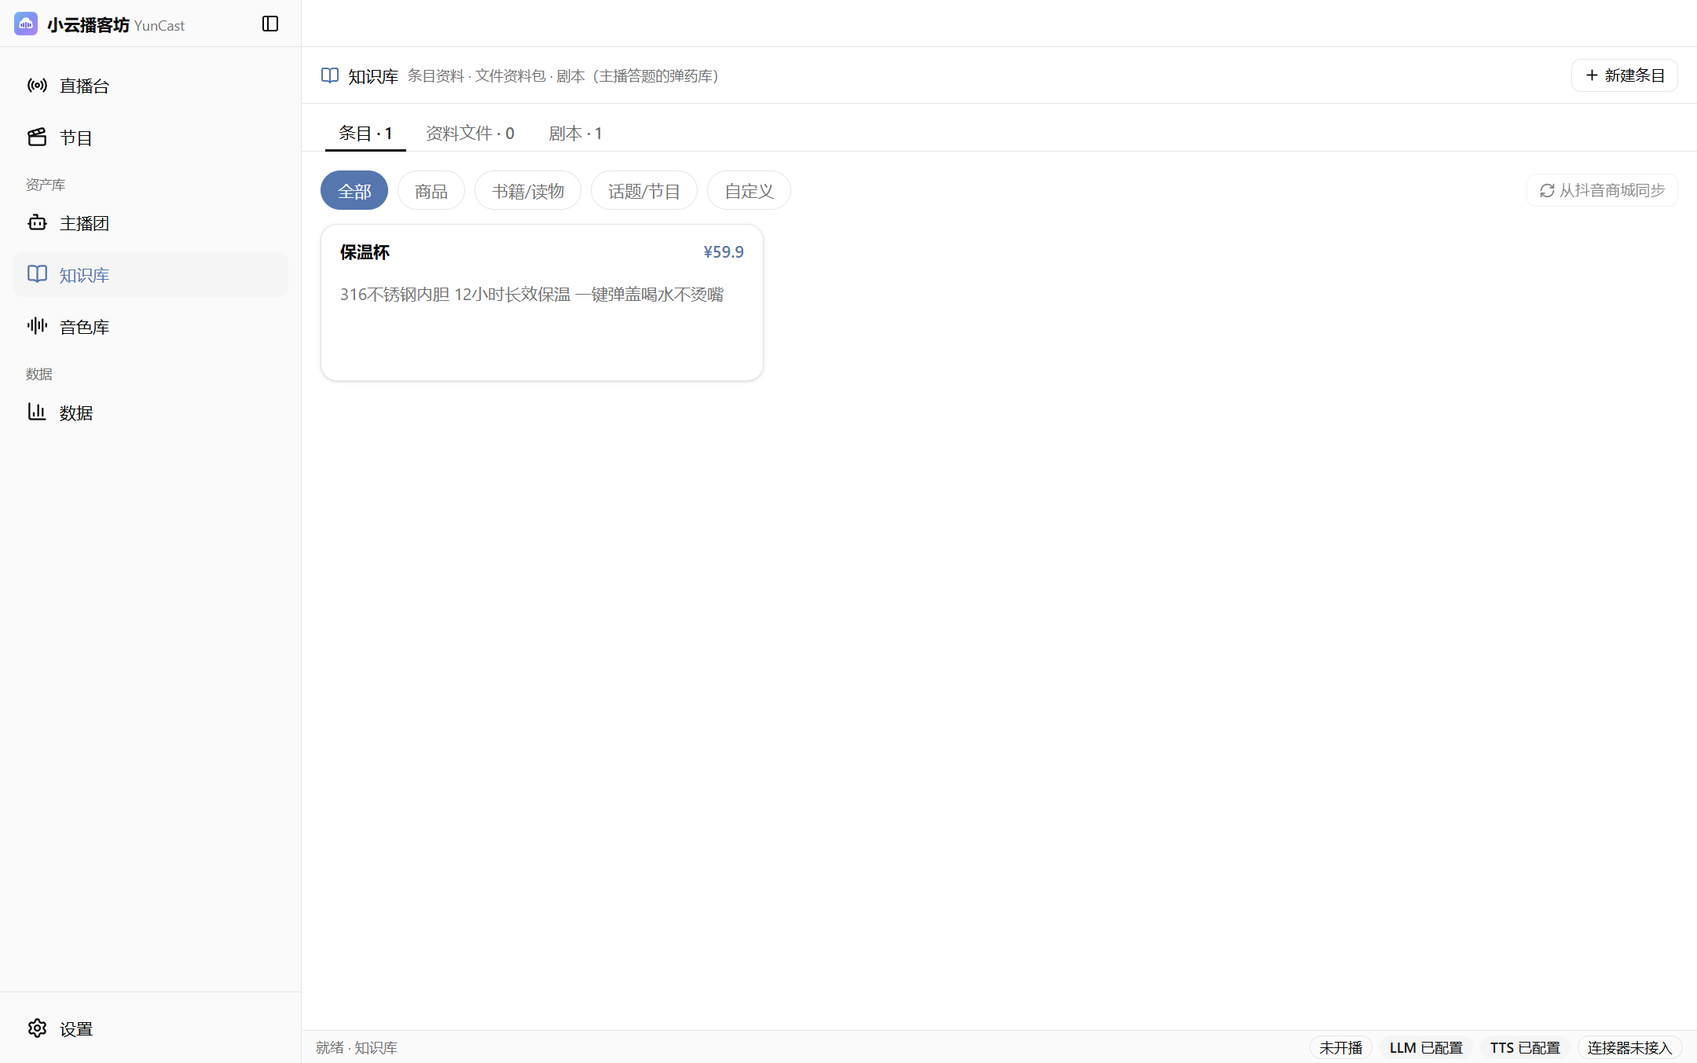
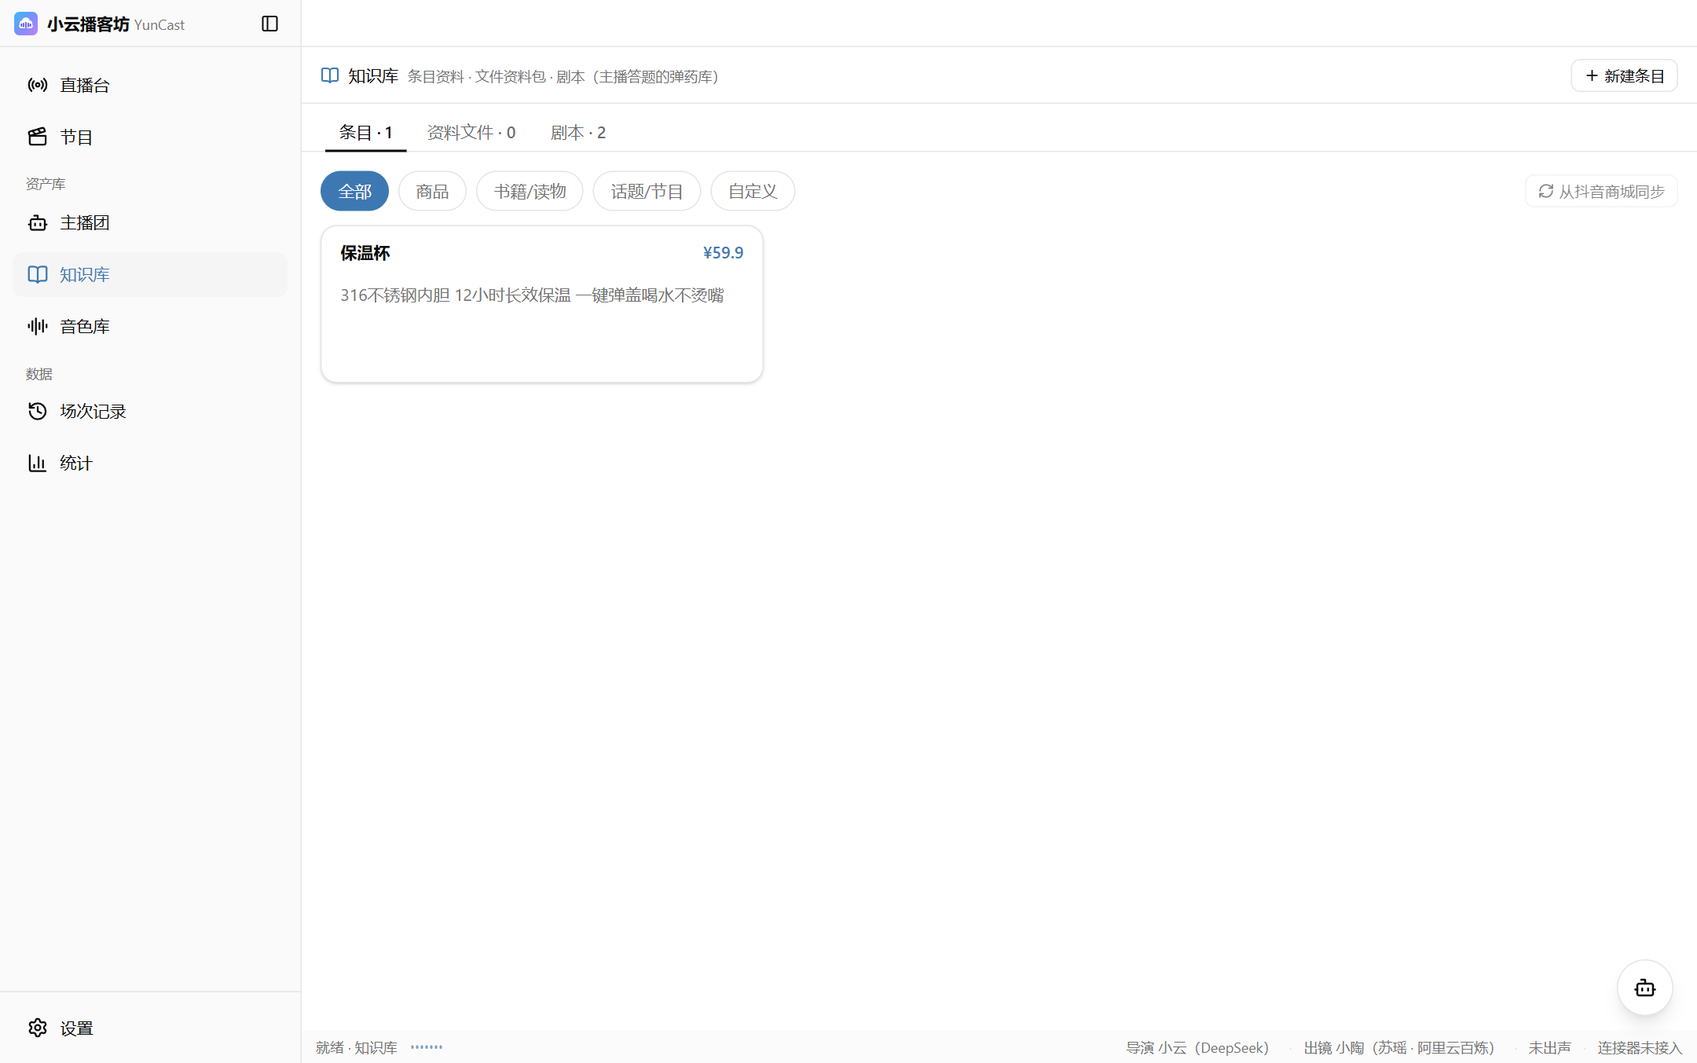
docs(官网): 使用说明与截图按新版工作台重做
- 八张界面截图全部重新生成（2160×1353）：直播台、节目、主播团、知识库、音色库、场次记录、统计、设置；直播台截图用 `?demo` 演示数据，带了停靠的导演面板
- 快速上手：四步流程对齐新界面（底部播放条、合成声音弹窗、底稿库生成音频、节目卡导出），删掉已不存在的「编剧模式」与「内置评论模拟器」，评论接入改写成「装连接器小软件 + 抄端口令牌」
- 界面一览：逐页按现在的侧边栏重排（新增场次记录页），原来「数据」一节拆成场次记录与统计；设置栏目补齐「导演手册」
- 核心概念：修正「音色挂在节目上」的旧说法（现在是合成那一刻选并冻结进产物）；术语改为 事件流 / 话术池四档；新增「节目是模板，场次是留档」与「冻结快照与预制门禁」
- 落地页：特性与 FAQ 去掉编剧模式、收件箱、话术池车道等过时说法，展示新增场次记录；版本号 v0.1.3
- llms.txt：补 LLM 协议清单与「声音在合成那一刻定」的核心机制

diff --git a/website/.vitepress/theme/Home.vue b/website/.vitepress/theme/Home.vue
@@ -6,6 +6,7 @@ import shotPrograms from '../../guide/screenshots/programs.png'
 import shotAnchors from '../../guide/screenshots/anchors.png'
 import shotVoices from '../../guide/screenshots/voices.png'
 import shotStats from '../../guide/screenshots/stats.png'
+import shotSessions from '../../guide/screenshots/sessions.png'
 
 /* lucide 风格线性图标（stroke, 24x24 viewBox），v-html 注入 svg 内部 */
 const svg = (inner: string) => inner
@@ -21,12 +22,12 @@ const ICONS = {
 }
 
 const features = [
-  { icon: ICONS.mic, title: '智能主播 Agent', desc: '人设卡 + 编剧模式，主播自己写稿自己播。评论回不回、怎么回，它像真人一样看着办。' },
+  { icon: ICONS.mic, title: '智能主播 Agent', desc: '人设卡定性格与嗓音，主播自己查资料、自己写稿。评论回不回、怎么回，它像真人一样看着办。' },
   { icon: ICONS.layers, title: '四种节目形态', desc: '一个人讲、多人聊天、照着稿子读、分角色表演——直播带货、有声书、播客、FM 全覆盖。' },
   { icon: ICONS.shuffle, title: '三种播出方式', desc: '现场发挥、边播边准备、全部做好再播。预制节目有门禁：音频不齐，不开播。' },
   { icon: ICONS.waveform, title: '克隆店家的声音', desc: '火山引擎 / 阿里云百炼 / 播客专用大模型多 TTS 适配，一段录音克隆音色。' },
-  { icon: ICONS.message, title: '像真人一样看评论', desc: '评论先进收件箱：去重、归组、自适应聚合。洪峰一批批看，冷清一条不漏。' },
-  { icon: ICONS.sliders, title: '导演级播出控制', desc: '话术池车道、BGM ducking、麦克风真人接管、一键急停。人在场控，随时抢过话筒。' },
+  { icon: ICONS.message, title: '像真人一样看评论', desc: '评论先进事件流：去重、归组、自适应聚合。洪峰一批批看，冷清一条不漏。' },
+  { icon: ICONS.sliders, title: '导演级播出控制', desc: '四档话术池（打断 / 下一条 / 常规 / 垫底）、BGM ducking、真人接管话筒、一键急停。' },
   { icon: ICONS.download, title: '音频导出', desc: '整场导出 MP3/WAV，分章或合并、响度归一，直接上传喜马拉雅、小宇宙。' },
   { icon: ICONS.chart, title: '用量看板', desc: 'LLM tokens 与 TTS 字符按节目归组，30 天趋势可视化，花多少心里有数。' }
 ]
@@ -35,14 +36,15 @@ const showcase = [
   { src: shotPrograms, title: '节目', desc: '形态 × 播出方式 × 播完策略' },
   { src: shotAnchors, title: '主播团', desc: '人设卡点击弹窗配置' },
   { src: shotVoices, title: '音色库', desc: '云端音色 + 声音克隆' },
-  { src: shotStats, title: '数据', desc: '画像 · 摘要 · 用量看板' }
+  { src: shotSessions, title: '场次记录', desc: '每场留档 · 逐条试听 · 整场导出' },
+  { src: shotStats, title: '统计', desc: '用量 · 排行 · 热词' }
 ]
 
 /* GEO：可见 FAQ 与 FAQPage JSON-LD 保持一致，供搜索引擎与 AI 答案引擎引用 */
 const faqs = [
   { q: '小云播客坊 YunCast 是什么？', a: '一款开源免费（MIT）的 AI 直播工作台桌面软件：AI 主播自己写稿、用克隆的声音播报、看到评论自己决定怎么回。商品宣讲、直播带货、有声书、播客节目，一个工作台全包。' },
   { q: '小云播客坊收费吗？', a: '软件本身完全免费且开源（MIT 协议）。运行时需自配 LLM 和 TTS 云服务的 API Key，用量费用按服务商计价，应用内的用量看板可以看到每笔消耗。' },
-  { q: '不会写直播稿能用吗？', a: '可以，这正是它的主业。主播 Agent 有人设卡和编剧模式：说一句「给这场写稿」，它自己查资料、写稿、合成、排进播出队列，全程不用你动笔。' },
+  { q: '不会写直播稿能用吗？', a: '可以，这正是它的主业。主播 Agent 有人设卡和知识库：说一句「给这场写稿」，它自己查资料、写稿、合成、排进播出队列，全程不用你动笔。' },
   { q: '能克隆店家自己的声音吗？', a: '能。在音色库上传一段 10 秒以上的干净录音即可克隆音色，支持火山引擎、阿里云百炼和播客专用大模型等多家 TTS 服务。' },
   { q: '支持哪些直播平台和场景？', a: '软件本身平台无关：合成声音经虚拟声卡/OBS 推流到任意直播平台，评论通过平台连接器接入。除直播带货外，还支持有声书、播客、FM 等预制节目，可整场导出 MP3/WAV 上传喜马拉雅、小宇宙。' },
   { q: '数据会上传到云端吗？', a: '不会。除调用你自配的 LLM/TTS 云 API 外，所有数据（剧本、音频、评论记录、用量）都存在你自己电脑上，软件无服务端。' }
@@ -160,7 +162,7 @@ onUnmounted(() => {
       <div class="hero-dots" aria-hidden="true" />
       <canvas ref="waveCanvas" class="hero-waves" aria-hidden="true" />
       <div class="hero-inner">
-        <div class="badge reveal">v0.1.2 · Windows / macOS / Linux 同步发布</div>
+        <div class="badge reveal">v0.1.3 · Windows / macOS / Linux 同步发布</div>
         <h1 class="hero-title">
           <span class="line"><span class="word">专为</span> <span class="word">不会</span> <span class="word">直播的</span></span>
           <span class="line"><span class="word grad">商家</span> <span class="word grad">和</span> <span class="word grad">企业</span> <span class="word grad">而生。</span></span>
@@ -179,7 +181,7 @@ onUnmounted(() => {
             <div class="window-bar"><i /><i /><i /></div>
             <img :src="shotLive" alt="直播台" />
           </div>
-          <p class="caption">直播台：话术池队列 + 评论流 + 事件流，右侧直接和主播对话</p>
+          <p class="caption">直播台：接下来 / 评论流 / 事件流，右下角唤起导演直接对话</p>
         </div>
       </div>
     </section>

diff --git a/website/.vitepress/config.ts b/website/.vitepress/config.ts
@@ -14,7 +14,7 @@ const softwareJsonLd = {
   description: SITE_DESC,
   url: SITE_URL,
   downloadUrl: 'https://github.com/xy200303/yuncast/releases/latest',
-  softwareVersion: '0.1.2',
+  softwareVersion: '0.1.3',
   applicationCategory: 'MultimediaApplication',
   operatingSystem: 'Windows, macOS, Linux',
   inLanguage: 'zh-CN',

diff --git a/website/guide/interface.md b/website/guide/interface.md
@@ -1,48 +1,70 @@
 ---
 title: 界面一览
-description: 小云播客坊界面截图：直播台、节目管理、主播团人设卡、音色库声音克隆、数据看板，开播前先看一遍工作台长什么样。
+description: 小云播客坊界面逐页说明：直播台播控与导演对话、节目底稿与合成、主播团、音色库、场次记录、统计用量与设置项，配截图，开播前先看一遍工作台。
 ---
 
 # 界面一览
 
+左侧边栏从上到下是 **直播台、节目**，然后分两组：**资产库**（主播团、知识库、音色库）、**数据**（场次记录、统计），最下面是「设置」。底部状态栏常驻，显示 `就绪 / 播报中 / 已暂停 · 当前页面｜导演 名字（服务商）｜出镜 主播（嗓音 · 服务商）｜合成中 N｜推流状态｜连接器状态`。
+
 ## 直播台
 
-开播主控台：顶部是节目选择与播控（启动/暂停/跳过/结束/导出/急停），中间是话术池队列、评论流、事件流，右侧是和主播的对话框与操作面板。
+开播主控台。左栏三个选项卡：`接下来 / 评论流 / 事件流`；节目关掉「直播间动态」时不出选项卡，直接显示「接下来」。
+
+播控在**底部吸底播放条**：左槽选节目、定出镜主播与嗓音；中槽没开播时只有「启动节目」，开播后是 上一段 / 暂停继续 / 下一段 / 队列 / 结束本场；右槽是静音与主音量，还有一个「⋯」菜单（人工播报 / 自动响应）。
+
+导演对话面板平时是右下角一个悬浮球（悬停提示「打开导演」），点开停靠到右侧，面板右上角能切成悬浮窗或收起来，`Ctrl+J` 也能唤起。时间线里有「思考过程」折叠块、工具卡（查了商品资料 / 安排了播报 ×4）和主播的请示卡（带一键选项）；输入框下方三个快捷按钮：暂停 / 跳过这条 / 汇报下状态。
 
 ![直播台](./screenshots/live.png)
 
 ## 节目
 
-节目列表与配置：内容形态、播出方式、播完策略、互动开关、触发器清单。预制节目的底稿与音频状态也在这里管理。
+节目是配置模板。卡片上有节目名、主题、标签（内容类型 / 播出方式 / 绑的剧本）、底稿与音频状态，按钮是 设为当前 / 取消当前、底稿库、编辑、导出（预制节目，整场 MP3/WAV，分章或合并、响度归一）、删除，预制节目还会多一个「继续合成」。
+
+编辑弹窗里能配：名称、剧本 / 文章、内容类型（一个人讲 / 多人聊天 / 照着稿子读 / 分角色表演）、主题与节目说明、播出方式（现场发挥 / 边播边准备 / 全部做好再播）、播完以后（循环 / 收播）、事件规则（一行摘要，点进内页勾选启用哪些触发器、要不要把直播间动态喂给主播）、卡司、知识范围。这里**没有「声音安排」这一栏**，声音在合成那一刻才选。
+
+点「底稿库」管稿子和音频：AI 写稿 / 手动新建 / 清空全部 / 清空音频 / 提前合成全部（滚动节目）；预制节目那里还有音频进度区，能逐单元看状态并重试、导入外部音频。
+
+「合成声音」弹窗是所有合成入口的统一前置，先告诉你「本次合成 N 段 · 约 X 分钟」，再让声音三选一：① 当前主播嗓音；② 节目声音安排（只有老节目存过自定义配置才出现）；③ 选择其他音色…（内嵌音色选择器：接入 → 模型 → 音色，也能手填音色 ID），选到播客模型还要指定两位主持人和开场 / 结尾音乐；已有别的嗓音的成品会给混音提醒和「全部重合成统一」。**声音就是这时候定下来的：选完冻结进每一段产物，之后换主播、改人设都不会改写已有音频。**
 
 ![节目](./screenshots/programs.png)
 
 ## 主播团
 
-人设卡列表。点击卡片弹窗配置：性格、口癖、禁区、编剧模式、音色挂载。
+人设卡列表，点开弹窗配性格、口癖、禁区等。主播只管人设与表达风格，和节目是分开的：同一张卡能串不同节目，同一个节目也能换主播。
 
 ![主播团](./screenshots/anchors.png)
 
 ## 知识库
 
-商品与资料。商品价格有护栏——主播报价只能出自知识库核过的口径，不会自己编数字。
+条目 / 资料文件 / 剧本。商品价格有护栏——主播报价只认这里核过的口径，不会自己编数字；也可以用连接器从抖音商城同步商品。
 
 ![知识库](./screenshots/knowledge.png)
 
 ## 音色库
 
-云端音色与克隆音色管理。传一段干净录音即可克隆店家的声音；每个音色可以先试听再挂到节目上。
+云端音色加克隆音色。克隆要一段 10–30 秒的干净人声；用百炼复刻还得把样本传到公网地址，界面里有「上传样本并取地址」帮忙。每个音色都能先试听。
 
 ![音色库](./screenshots/voices.png)
 
-## 数据
+## 场次记录
 
-观众画像（主播自动记住来互动的观众）、节目摘要（下播自动复盘）、用量看板（LLM tokens / TTS 字符，按节目归组 + 30 天趋势）。
+每场开播的完整留档：逐条话术、评论、事件、观众画像、节目摘要，支持逐条试听、整场音频导出、删除场次。
 
-![数据](./screenshots/stats.png)
+![场次记录](./screenshots/sessions.png)
+
+## 统计
+
+概览 / 排行与热词 / 用量。用量按节目归组，看 LLM tokens 和 TTS 字符，带 30 天趋势。
+
+![统计](./screenshots/stats.png)
 
 ## 设置
 
-外观、语言模型、主播手册（全局提示词）、语音合成、推流、连接器。
+外观 / 导演 / 语言模型 / 导演手册 / 语音合成 / 推流 / 连接器 / 关于。
+
+**导演**是全局唯一的 AI 大脑：起个名字，选一条接入和一个模型。**语言模型**里一条「接入」＝ 一家服务商 + 一份凭据 + 一组模型，支持 OpenAI 兼容（DeepSeek、通义千问、豆包、Kimi、智谱）、OpenAI 官方 Responses、Anthropic（Claude 与 Kimi 编程端点），另有「自定义接口」可手填地址。**语音合成**接火山引擎（豆包语音）或阿里云百炼，做双人播客还能接火山播客专用大模型、整期一次合成。**推流**分伴侣模式（小云播客坊只出声，画面交给你的直播软件）和直推（FFmpeg 静态帧 + 混音推 RTMP）。
+
+评论接入单独说：「连接器」靠一个单独的小软件——抖音「直播数据助手」。装好打开它，把它「设置 → 智能体接口」里的端口和令牌抄进这里，评论 / 礼物 / 进场就会流进来。主程序不内置任何平台 SDK，也没有内置评论模拟器。
 
 ![设置](./screenshots/settings.png)

diff --git a/website/guide/quickstart.md b/website/guide/quickstart.md
@@ -1,53 +1,62 @@
 ---
 title: 快速上手
-description: 小云播客坊四步开播教程：配 LLM/TTS 的 API Key、建主播人设卡、建节目、启动播出。AI 主播自动写稿播报，附声音克隆方法。
+description: 小云播客坊快速上手：四步开播——配好语言模型与语音合成的钥匙、建 AI 主播人设卡、建节目、写稿开播。不会直播的商家也能用：直播带货、商品宣讲、有声书、播客，附声音克隆与抖音评论接入。
 ---
 
 # 快速上手
 
-四步开播：**配钥匙 → 建主播 → 建节目 → 启动**。
+四步开播：**配钥匙 → 建主播 → 建节目 → 写稿开播**。
 
 ## 第一步：配两把钥匙
 
-打开左下角「设置」，需要填两处：
+打开左下角「设置」，先办两件事：
 
-- **语言模型**：主播的大脑。支持 DeepSeek、豆包、OpenAI 兼容协议（含 Responses 协议，可接 GPT）、Anthropic 等，填入 API Key 即可
-- **语音合成**：主播的嗓子。支持火山引擎、阿里云百炼；做多人播客还可以接火山播客专用大模型（Podcast API）
+- **语言模型**：AI 的脑子。一条「接入」＝服务商 + 凭据 + 一组模型。支持 OpenAI 兼容协议（DeepSeek、通义千问、豆包、Kimi、智谱）、OpenAI 官方 Responses、Anthropic（Claude、Kimi 编程端点）；协议对不上还能用「自定义接口」手填地址
+- **语音合成**：主播的嗓子。接入可选火山引擎（豆包语音）、阿里云百炼；做双人播客还能接火山播客专用大模型，整期一次合成
+
+填完再去「导演」：给全局这个 AI 大脑起个名字，指定它用哪条接入、哪个模型。
 
 ![设置](./screenshots/settings.png)
 
 ## 第二步：建主播
 
-进入「主播团」，新建一张人设卡：性格、口癖、禁区、编剧模式（主播自己写稿自己播）都在这里配置。想克隆店家的声音，先去「音色库」传一段 10 秒以上的干净录音，克隆完成后再回人设卡挂上。
+进入「主播团」，新建一张人设卡：名字、音色，加上性格、口癖、禁区。音色是必填的，不选主播没声音。
+
+想用店家的声音，先去「音色库」克隆一个：要一段 10–30 秒的干净人声；百炼复刻还得把样本放到公网地址（界面里有「上传样本并取地址」）。每个音色都能先试听再决定用不用。
 
 ![主播团](./screenshots/anchors.png)
 
 ## 第三步：建节目
 
-进入「节目」，新建一个节目，选三件事：
+进入「节目」，新建一个节目，填这几件事：
 
-1. **内容形态**：一个人讲 / 多人聊天 / 照着稿子读 / 分角色表演
+1. **内容类型**：一个人讲 / 多人聊天 / 照着稿子读 / 分角色表演
 2. **播出方式**：现场发挥 / 边播边准备 / 全部做好再播
-3. **播完之后**：循环还是收播
+3. **播完以后**：循环还是收播
+4. 主题与节目说明、卡司、知识范围，以及事件规则（一行摘要，点进去勾选启用哪些触发器）
 
-形态与播出方式怎么选，见[核心概念](/guide/concepts)。
+配好点「设为当前」。节目是配置模板，每次真开播的留档在「场次记录」里。形态与播出方式怎么选，见[核心概念](/guide/concepts)。
 
 ![节目](./screenshots/programs.png)
 
 ## 第四步：写稿与开播
 
-回到「直播台」，选中你的节目。有稿节目直接在右侧对话框跟主播说「给这场写稿」，它会自己查知识库、核对价格口径，把底稿逐场写好。
+回「直播台」。底部播放条左边选节目、定出镜主播与嗓音，中间按「启动节目」。
 
-- **边播边准备 / 现场发挥**：点「启动节目」直接开播，稿子边播边合成
-- **全部做好再播**：先在节目里走一遍预合成，门禁确认音频齐全后再开播
-- **开播后**：评论流进来了主播自己看着回；你随时可以人工播报、切场景、调音量、急停
+- **现场发挥 / 边播边准备**：直接开播，稿子边播边合成。跟右下角的导演说一句「给这场写稿」，它会自己查知识库、核对价格口径
+- **全部做好再播**：先在节目卡点「底稿库」写稿（AI 写稿 / 手动新建），再点「生成节目音频」。这一步会弹「合成声音」窗口，显示「本次合成 N 段 · 约 X 分钟」，声音三选一：当前主播嗓音 / 节目声音安排（只有老节目存过自定义配置才出现）/ 选择其他音色…。定下来的声音会冻结进每一段音频，之后换主播、改人设都不会改写已经出好的音频。音频齐了再回直播台开播
+- **开播之后**：左栏在「接下来 / 评论流 / 事件流」之间切，看排播、看评论、看喂给主播的事件（节目关掉「直播间动态」时只有「接下来」）。播放条上能 上一段 / 暂停继续 / 下一段 / 队列 / 结束本场，右边调音量和静音，「⋯」菜单里是人工播报和自动响应
+
+右下角的悬浮球是导演面板，按 `Ctrl+J` 也能唤起。它会写稿、汇报思考过程、列出查过哪些资料、安排过哪些播报，遇到拿不准的事会递给你一张带选项的请示卡，点一下就行。
 
 ![直播台](./screenshots/live.png)
 
 ## 导出音频
 
-预制节目播完（或不播）都可以在直播台点「导出」，整场合成 MP3/WAV，分章或合并、响度归一，直接上传喜马拉雅、小宇宙等音频平台。
+预制节目的节目卡上就有「导出」，整场 MP3/WAV，分章或合并、响度归一，传喜马拉雅、小宇宙这些音频平台都行。「场次记录」里也能导出某一场的整场音频。
 
 ## 接入真实评论
 
-主应用不含任何平台 SDK。评论由独立的「平台连接器」小程序经本地事件流喂进来；开发期可以用内置模拟器先跑通全流程。直播画面合成（摄像头 + BGM + 合成声音）推流用「伴侣模式」：小云播客坊只出声，画面在你的直播软件里自己合成。
+主程序不内置任何平台 SDK，也没有模拟器。评论靠一个单独的小软件：装好抖音「直播数据助手」并打开它，把它「设置 → 智能体接口」里的**端口和令牌**抄进小云播客坊的「设置 → 连接器」，评论、礼物、进场就会流进来；连接器没开时会自动重试，你打开它自己就接上了。
+
+画面推流有两种走法：「伴侣模式」——小云播客坊只出声，画面交给你的直播软件；「直推」——用 FFmpeg 推静态帧加混音到 RTMP。
